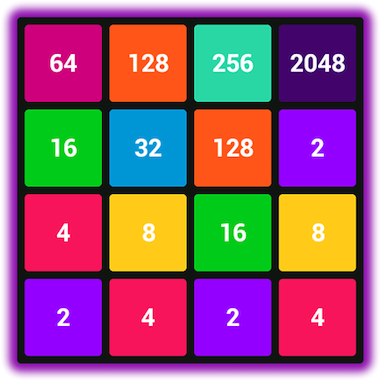
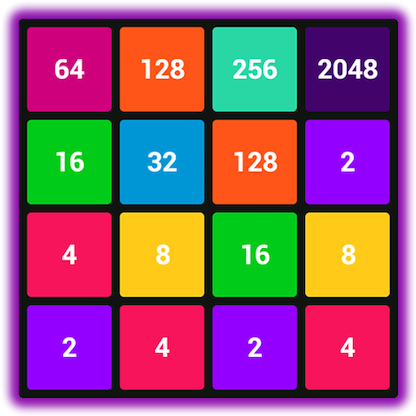
Resize images and add in border

diff --git a/portfolio/index.html b/portfolio/index.html
@@ -28,10 +28,10 @@
 				</div>
 			</div>
 			<div class="row">
-				<div class="col-md-8">
-					<img class="img-responsive" src="images/cs.jpg" alt="Computer Science Image">
+				<div class="col-md-7">
+					<img class="img-responsive align-middle" src="images/cs.jpg" alt="Computer Science Image">
 				</div>
-				<div class="col-md-4">
+				<div class="col-md-5">
 					<img class="img-responsive" src="images/jdd.jpg" alt="Picture of myself" >
 				</div>
 			</div>
@@ -47,7 +47,7 @@
 					<p><a href="http://github.com/jd12/RobocodeInitial">Link to assignment</a></p>
 				</div>
 				<div class="col-md-6">
-					<img class="img-responsive" src="images/2048.png">
+					<img class="img-responsive center-block" src="images/2048.png">
 					<h3>2048</h3>
 					<p><a href="http://github.com/jd12/2048">Link to assignment</a></p>
 				</div>
@@ -59,7 +59,7 @@
 					<p><a href="https://docs.google.com/document/d/1Vv7TAn-_sxPSjA6lv_ACV7W6QJHONLqpRuDaeFO7zgk/edit?usp=sharing">Link to assignment</a></p>
 				</div>
 				<div class="col-md-6">
-					<img class="img-responsive" src="images/roborally.jpg">
+					<img class="img-responsive center-block" src="images/roborally.jpg">
 					<h3>RoboRally</h3>
 					<p><a href="https://docs.google.com/document/d/1SdYGLk9_IWnbgFj7ZOkrwZZ4PqmnKoTmcYPTj6yI_rE/edit?usp=sharing">Link to assignment</a></p>
 				</div>

diff --git a/portfolio/css/style.css b/portfolio/css/style.css
@@ -1,5 +1,5 @@
 *{
-/*	outline: 1px solid red !important;*/
+	outline: 1px solid red !important;
 }
 
 * {
@@ -22,16 +22,16 @@ body {
     font-weight: 100;
 }
 
-.description {
-	max-width:705px;
-}
+ .description {
+	 max-width:705px;
+ }
 
-.screenshot {
-	max-width:460px;
-	margin:30px;
-}
+ .screenshot {
+	 max-width:460px;
+	 margin:30px;
+ }
 
-.app {
-	display: -webkit-flex;
-	display: flex;
-}
+ .app {
+	 display: -webkit-flex;
+	 display: flex;
+ }
